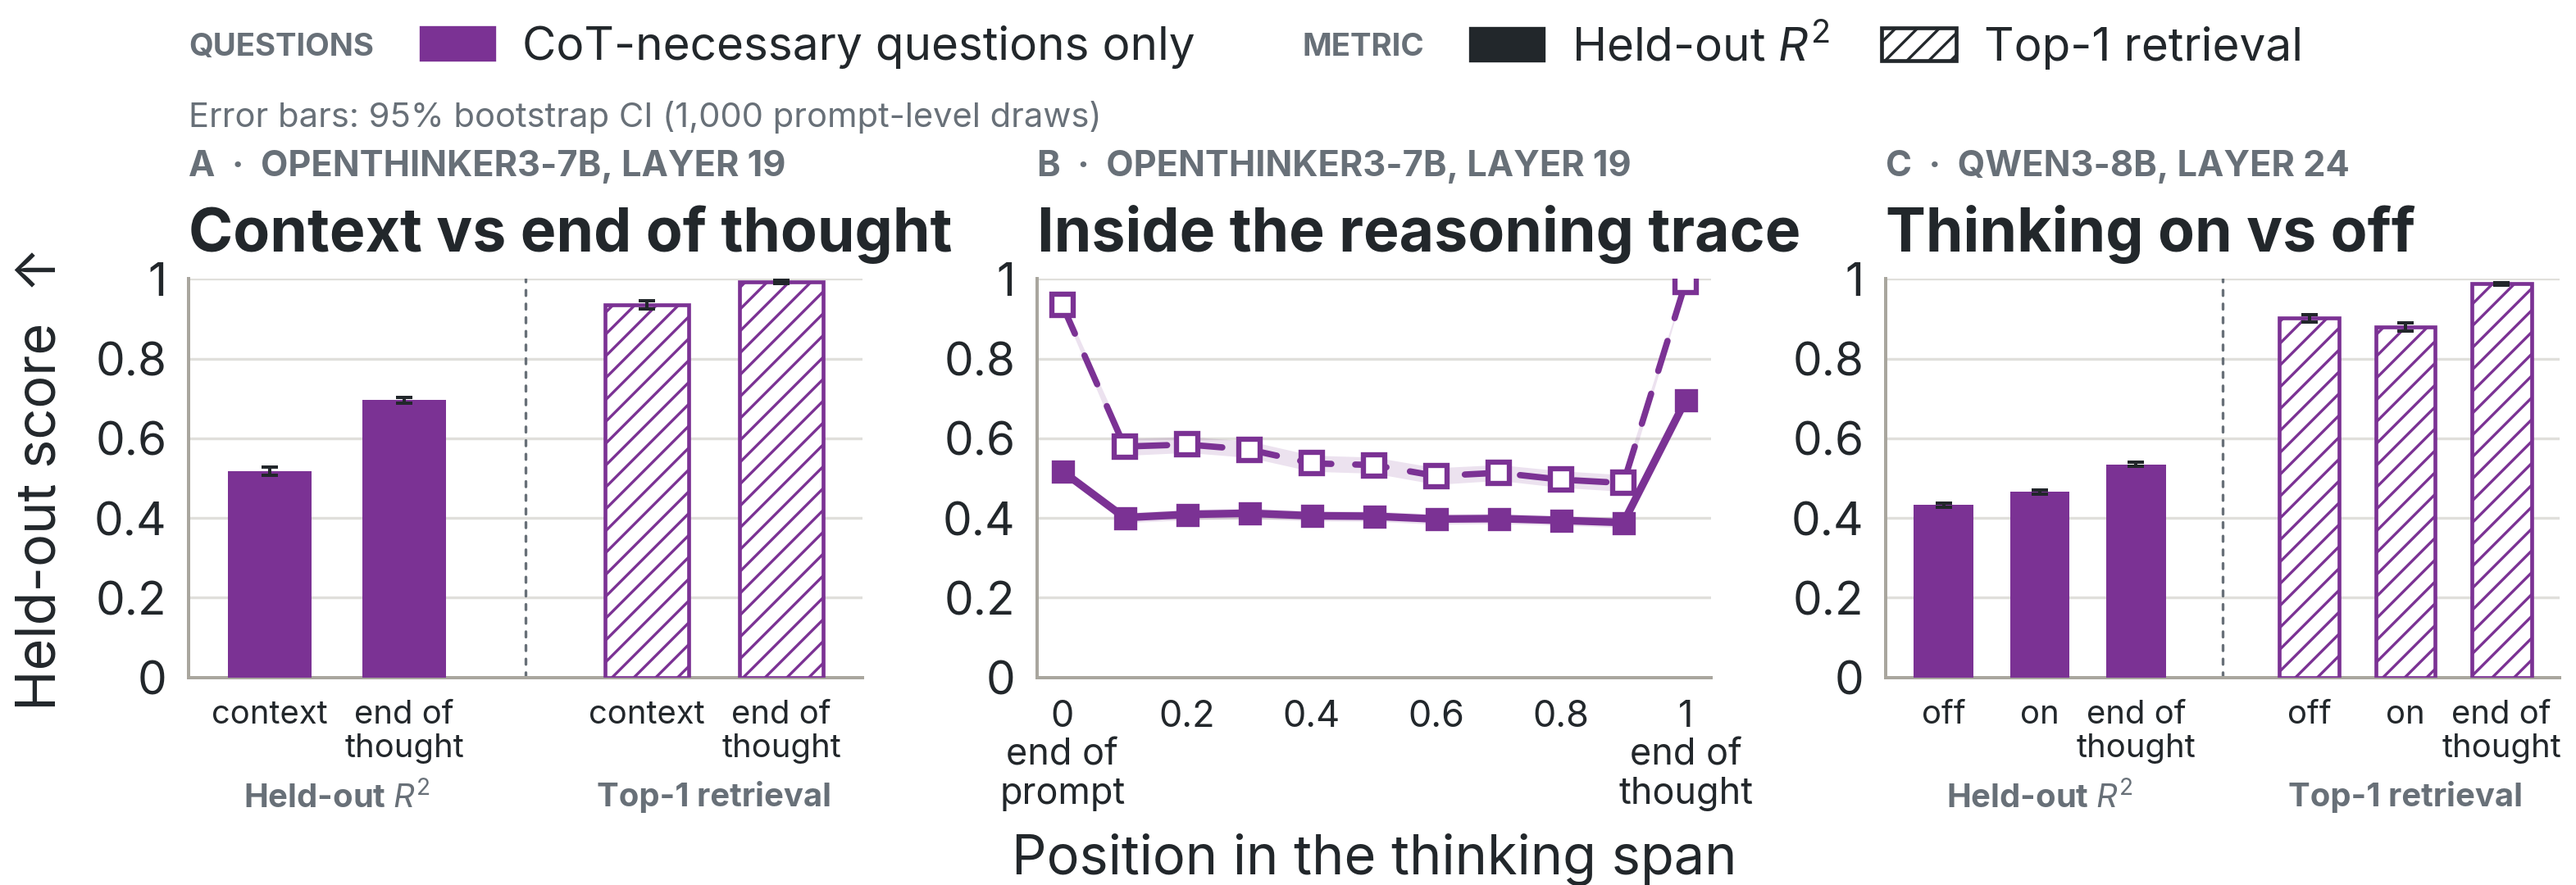
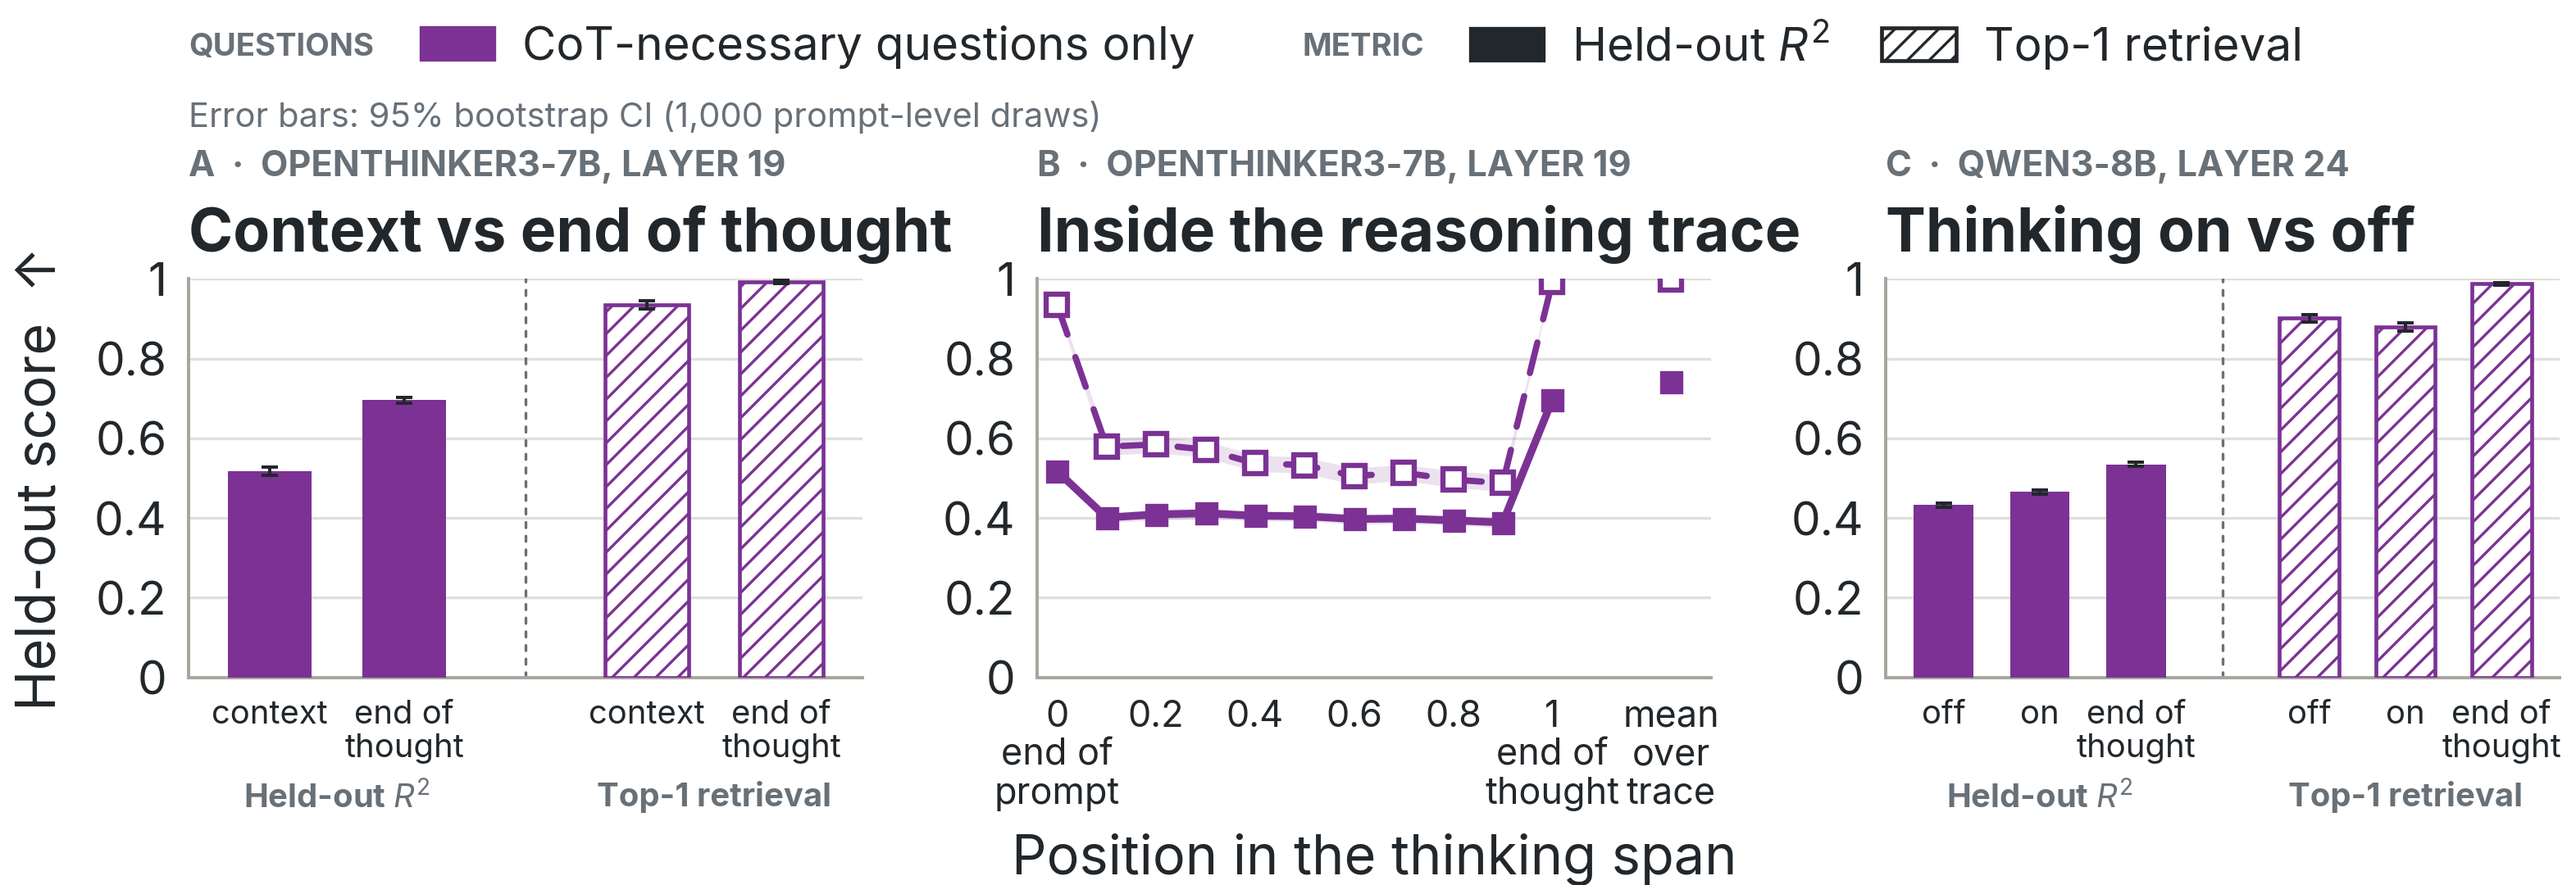
Figure 4.5 panel B: add the mean-over-reasoning-tokens input as its own slot (Thomas 2026-09-04 "yes add it")
scripts/section45_cot_figure.py draws one extra slot to the right of the 0..1 trace axis in panel B, labeled "mean over trace", with the R2 (filled) and top-1 retrieval (open) markers of cell p7_F_lam1000 (input = mean over all reasoning tokens, target = mean over answer tokens, same rows, folds, and scoring as the other cells). Whiskers are the 1,000-draw bootstrap CIs. Penalty 1000 is the best held-out penalty of the 316/1000/3162 sweep for both labeled models, and the three differ by at most 0.02.

Values shown (OpenThinker3-7B, CoT-necessary questions, dataset-mean R2): 0.741 and 99.9%, against 0.696 and 99.2% at the end-of-thought token. c2a-v2 canvas and spill checks pass. Regenerated c1_cot_maps.{pdf,png,grayscale,_data.json}; the reasoning-SFT appendix figure is unchanged. Inline lint gate PASS.

Generated with [Claude Code](https://claude.ai/code)
via [Happy](https://happy.engineering)

Changed region(s): [[0.4055, 0.3361, 0.655, 0.6111], [0.3743, 0.7944, 0.6862, 0.9167], [0.5926, 0.3056, 0.655, 0.3361]]

diff --git a/scripts/section45_cot_figure.py b/scripts/section45_cot_figure.py
@@ -122,6 +122,13 @@ PANEL_D_MAPS = [
     ("p8_E", "before →\nafter"),
     ("p8_F", "after\nmodel"),
 ]
+# Panel B extra slot: the metamodel whose INPUT is the mean over all reasoning tokens
+# (cell p7_F, scripts/issue2546_allfit_cotmean_cell.py). It is not a position in the
+# trace, so it sits to the right of the 0..1 axis at its own tick. Penalty 1000 is the
+# best held-out penalty of the 316/1000/3162 sweep on all rows for both labeled models
+# (the three differ by at most 0.02 in R^2).
+TRACE_MEAN_CELL = "p7_F_lam1000"
+TRACE_MEAN_X = 1.24
 
 
 def _sha256(path: Path) -> str:
@@ -386,7 +393,13 @@ def load_bundle(bundle_dir: Path, subset: str, baseline: str) -> dict[str, Any]:
             "model": "open-thoughts/OpenThinker3-7B",
             "maps": [{"cell": c, "label": l, subset: cell(c, 1)} for c, l in PANEL_A_MAPS],
         },
-        "B": {"arm": 1, "model": "open-thoughts/OpenThinker3-7B", "series": {subset: series(1)}},
+        "B": {
+            "arm": 1,
+            "model": "open-thoughts/OpenThinker3-7B",
+            "series": {subset: series(1)},
+            # input = mean over all reasoning tokens (not a trace position); drawn at its own slot
+            "trace_mean": {subset: cell(TRACE_MEAN_CELL, 1)},
+        },
         "C": {
             "arm": 3,
             "model": "Qwen/Qwen3-8B",
@@ -523,7 +536,13 @@ def _categorical_panel(
         )
 
 
-def _trajectory_panel(ax: plt.Axes, series: dict[str, list[dict[str, Any]]]) -> None:
+def _trajectory_panel(
+    ax: plt.Axes,
+    series: dict[str, list[dict[str, Any]]],
+    trace_mean: dict[str, dict[str, Any]] | None = None,
+) -> None:
+    """R^2 (solid, filled) and top-1 retrieval (dashed, open) along the trace; optional extra slot at
+    TRACE_MEAN_X for the metamodel whose input is the mean over all reasoning tokens (whiskers = CI)."""
     style_score_axis(ax, y_min=0.0, y_max=1.0, y_step=0.2)
     for subset in PLOT_STRATA:
         style = STRATA[subset]
@@ -559,13 +578,49 @@ def _trajectory_panel(ax: plt.Axes, series: dict[str, list[dict[str, Any]]]) -> 
             linestyle=(0, (5.0, 3.8)),
             zorder=3,
         )
-    ax.set_xlim(-0.04, 1.04)
-    ax.set_xticks([0.0, 0.2, 0.4, 0.6, 0.8, 1.0])
-    ax.set_xticklabels(
-        ["0\nend of\nprompt", "0.2", "0.4", "0.6", "0.8", "1\nend of\nthought"],
-        fontsize=13.5,
-        linespacing=1.15,
-    )
+    ticks = [0.0, 0.2, 0.4, 0.6, 0.8, 1.0]
+    labels = ["0\nend of\nprompt", "0.2", "0.4", "0.6", "0.8", "1\nend of\nthought"]
+    x_max = 1.04
+    if trace_mean is not None:
+        for subset in PLOT_STRATA:
+            style = STRATA[subset]
+            m = trace_mean[subset]
+            r2_err = [[m["r2"] - m["r2_ci"][0]], [m["r2_ci"][1] - m["r2"]]]
+            lift_err = [
+                [m["retrieval_lift"] - m["retrieval_lift_ci"][0]],
+                [m["retrieval_lift_ci"][1] - m["retrieval_lift"]],
+            ]
+            ax.errorbar(
+                [TRACE_MEAN_X],
+                [m["r2"]],
+                yerr=r2_err,
+                fmt=style.marker,
+                color=style.color,
+                markersize=7.5,
+                capsize=3,
+                lw=1.6,
+                zorder=4,
+            )
+            ax.errorbar(
+                [TRACE_MEAN_X],
+                [m["retrieval_lift"]],
+                yerr=lift_err,
+                fmt=style.marker,
+                color=style.color,
+                markerfacecolor=PAPER,
+                markeredgecolor=style.color,
+                markeredgewidth=1.9,
+                markersize=8,
+                capsize=3,
+                lw=1.6,
+                zorder=3,
+            )
+        ticks.append(TRACE_MEAN_X)
+        labels.append("mean\nover\ntrace")
+        x_max = TRACE_MEAN_X + 0.08
+    ax.set_xlim(-0.04, x_max)
+    ax.set_xticks(ticks)
+    ax.set_xticklabels(labels, fontsize=13.5, linespacing=1.15)
     ax.set_xlabel("Position in the thinking span", labelpad=8)
 
 
@@ -667,7 +722,7 @@ def make_figure(panels: dict[str, Any]) -> plt.Figure:
         kicker_y=1.24,
         title_y=1.07,
     )
-    _trajectory_panel(ax_b, panels["B"]["series"])
+    _trajectory_panel(ax_b, panels["B"]["series"], trace_mean=panels["B"].get("trace_mean"))
     _kicker(
         ax_b,
         "Inside the reasoning trace",
